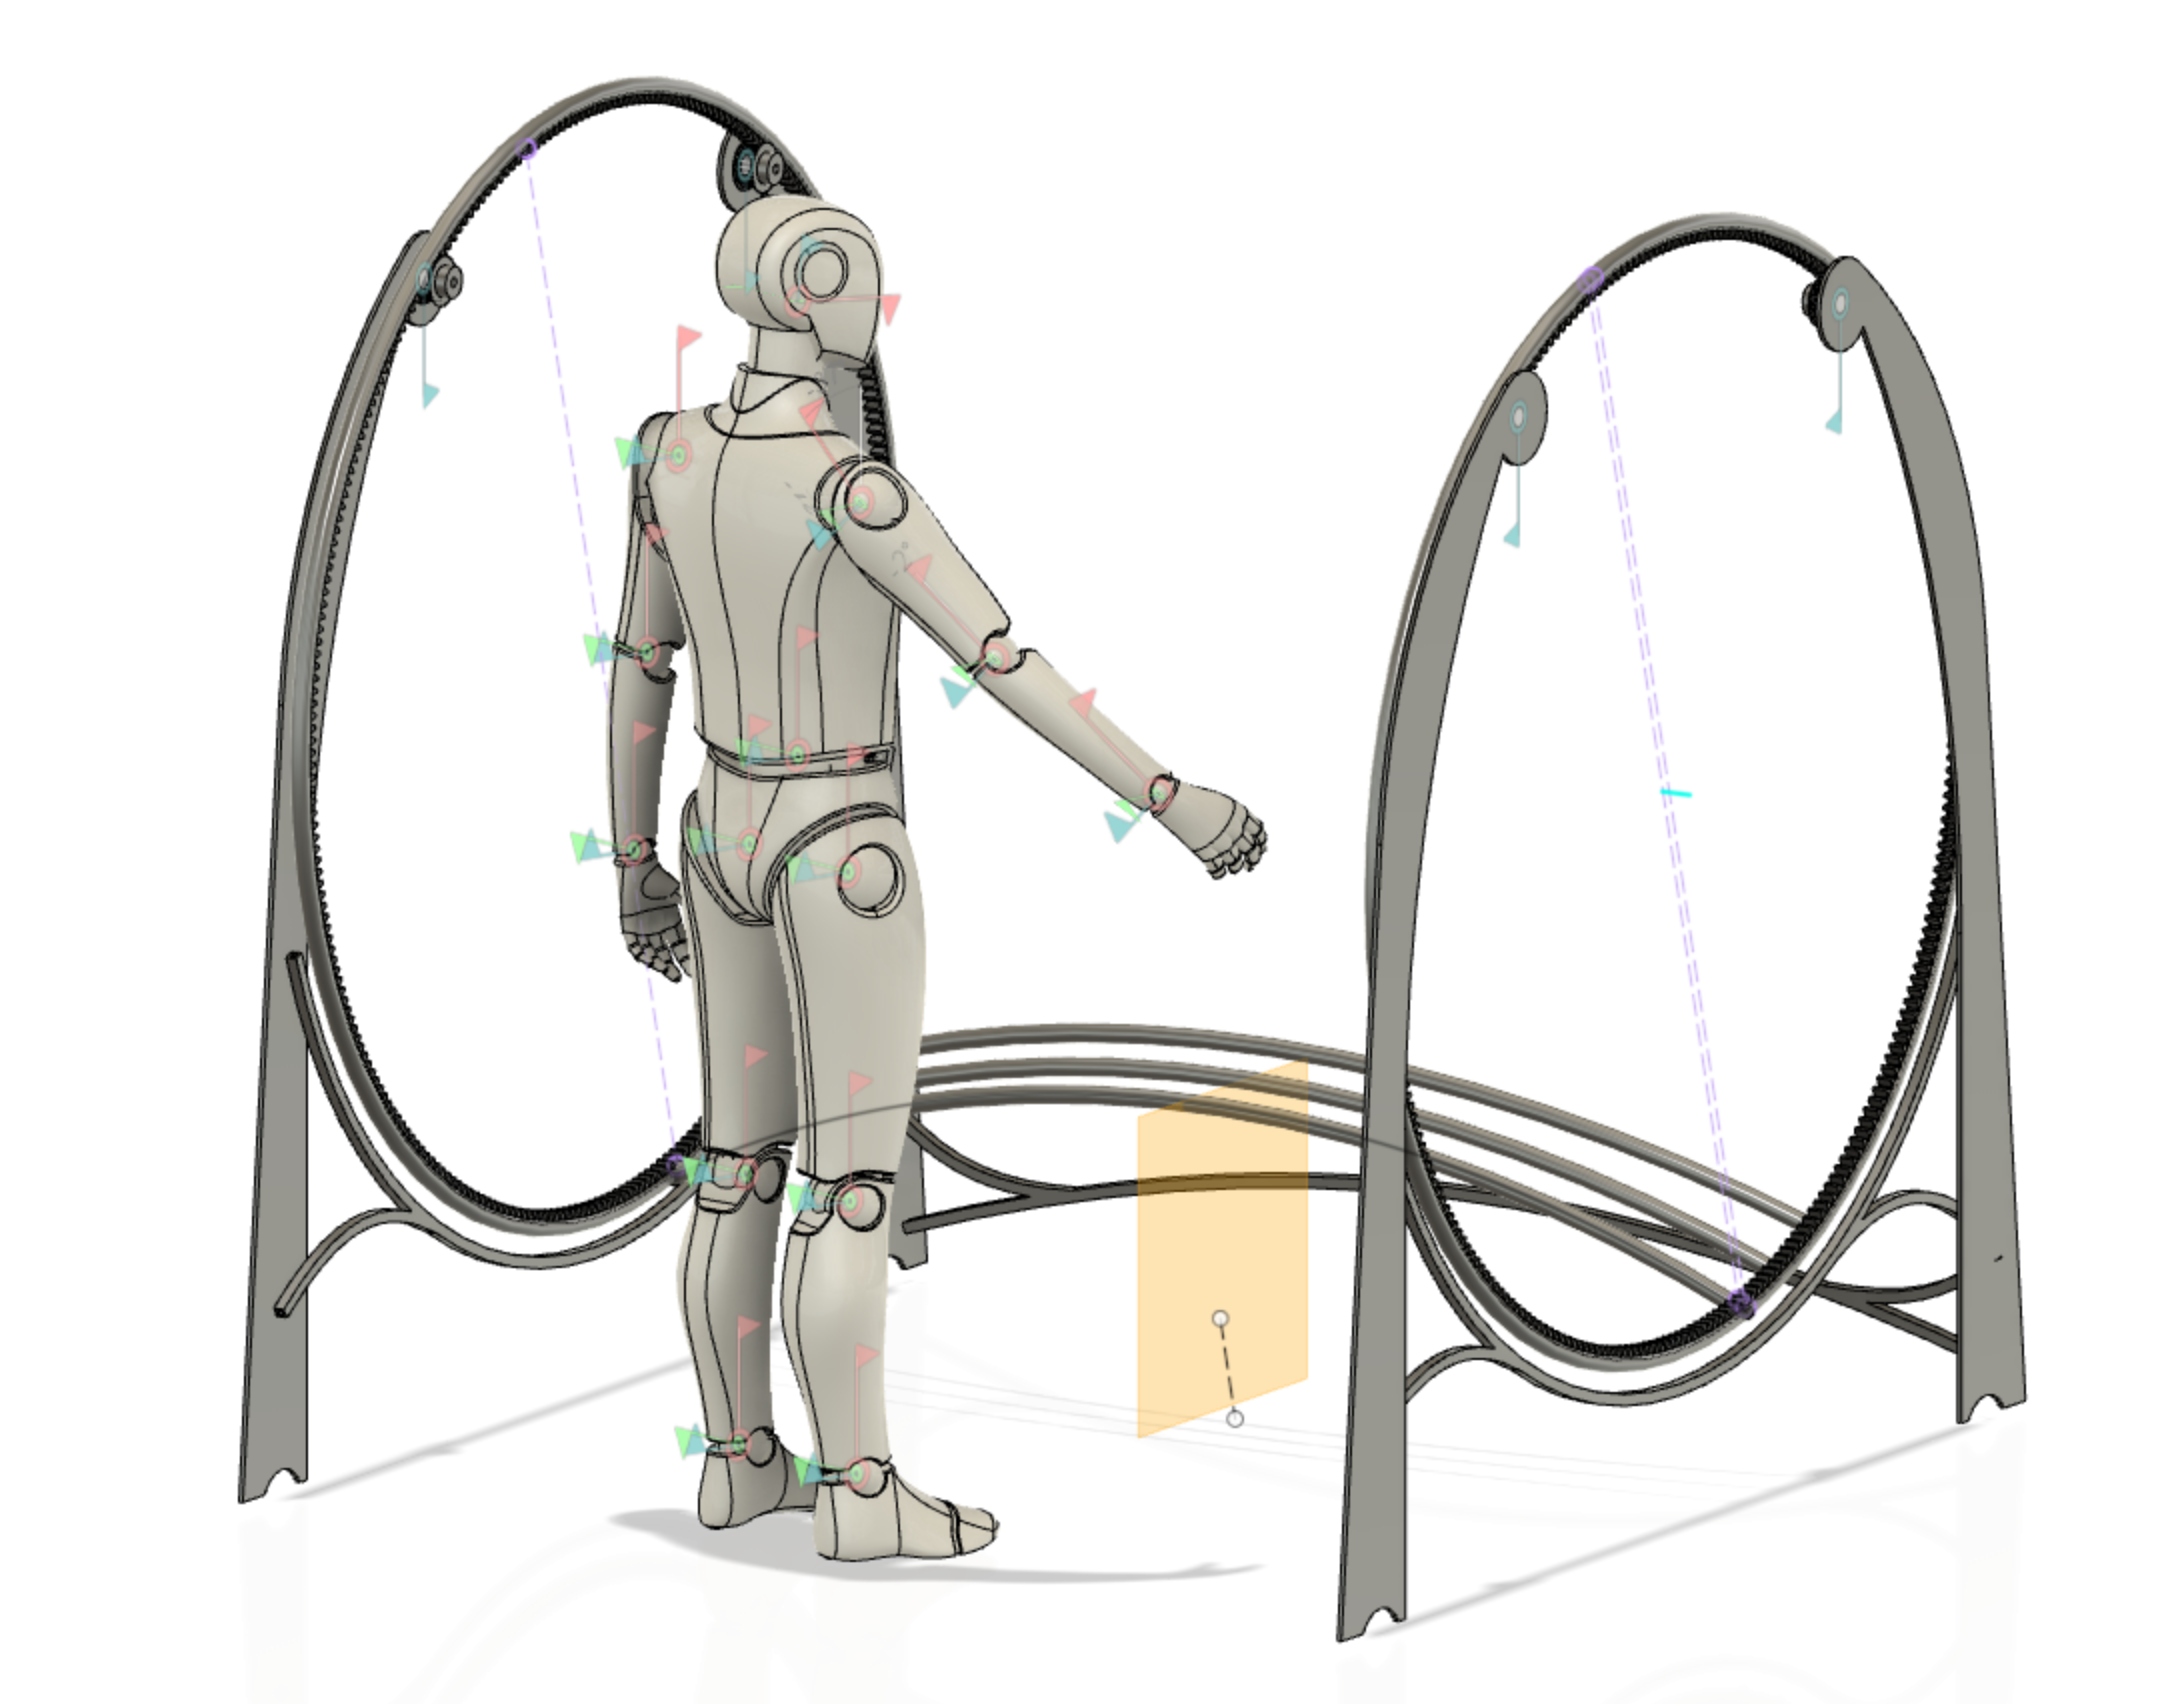
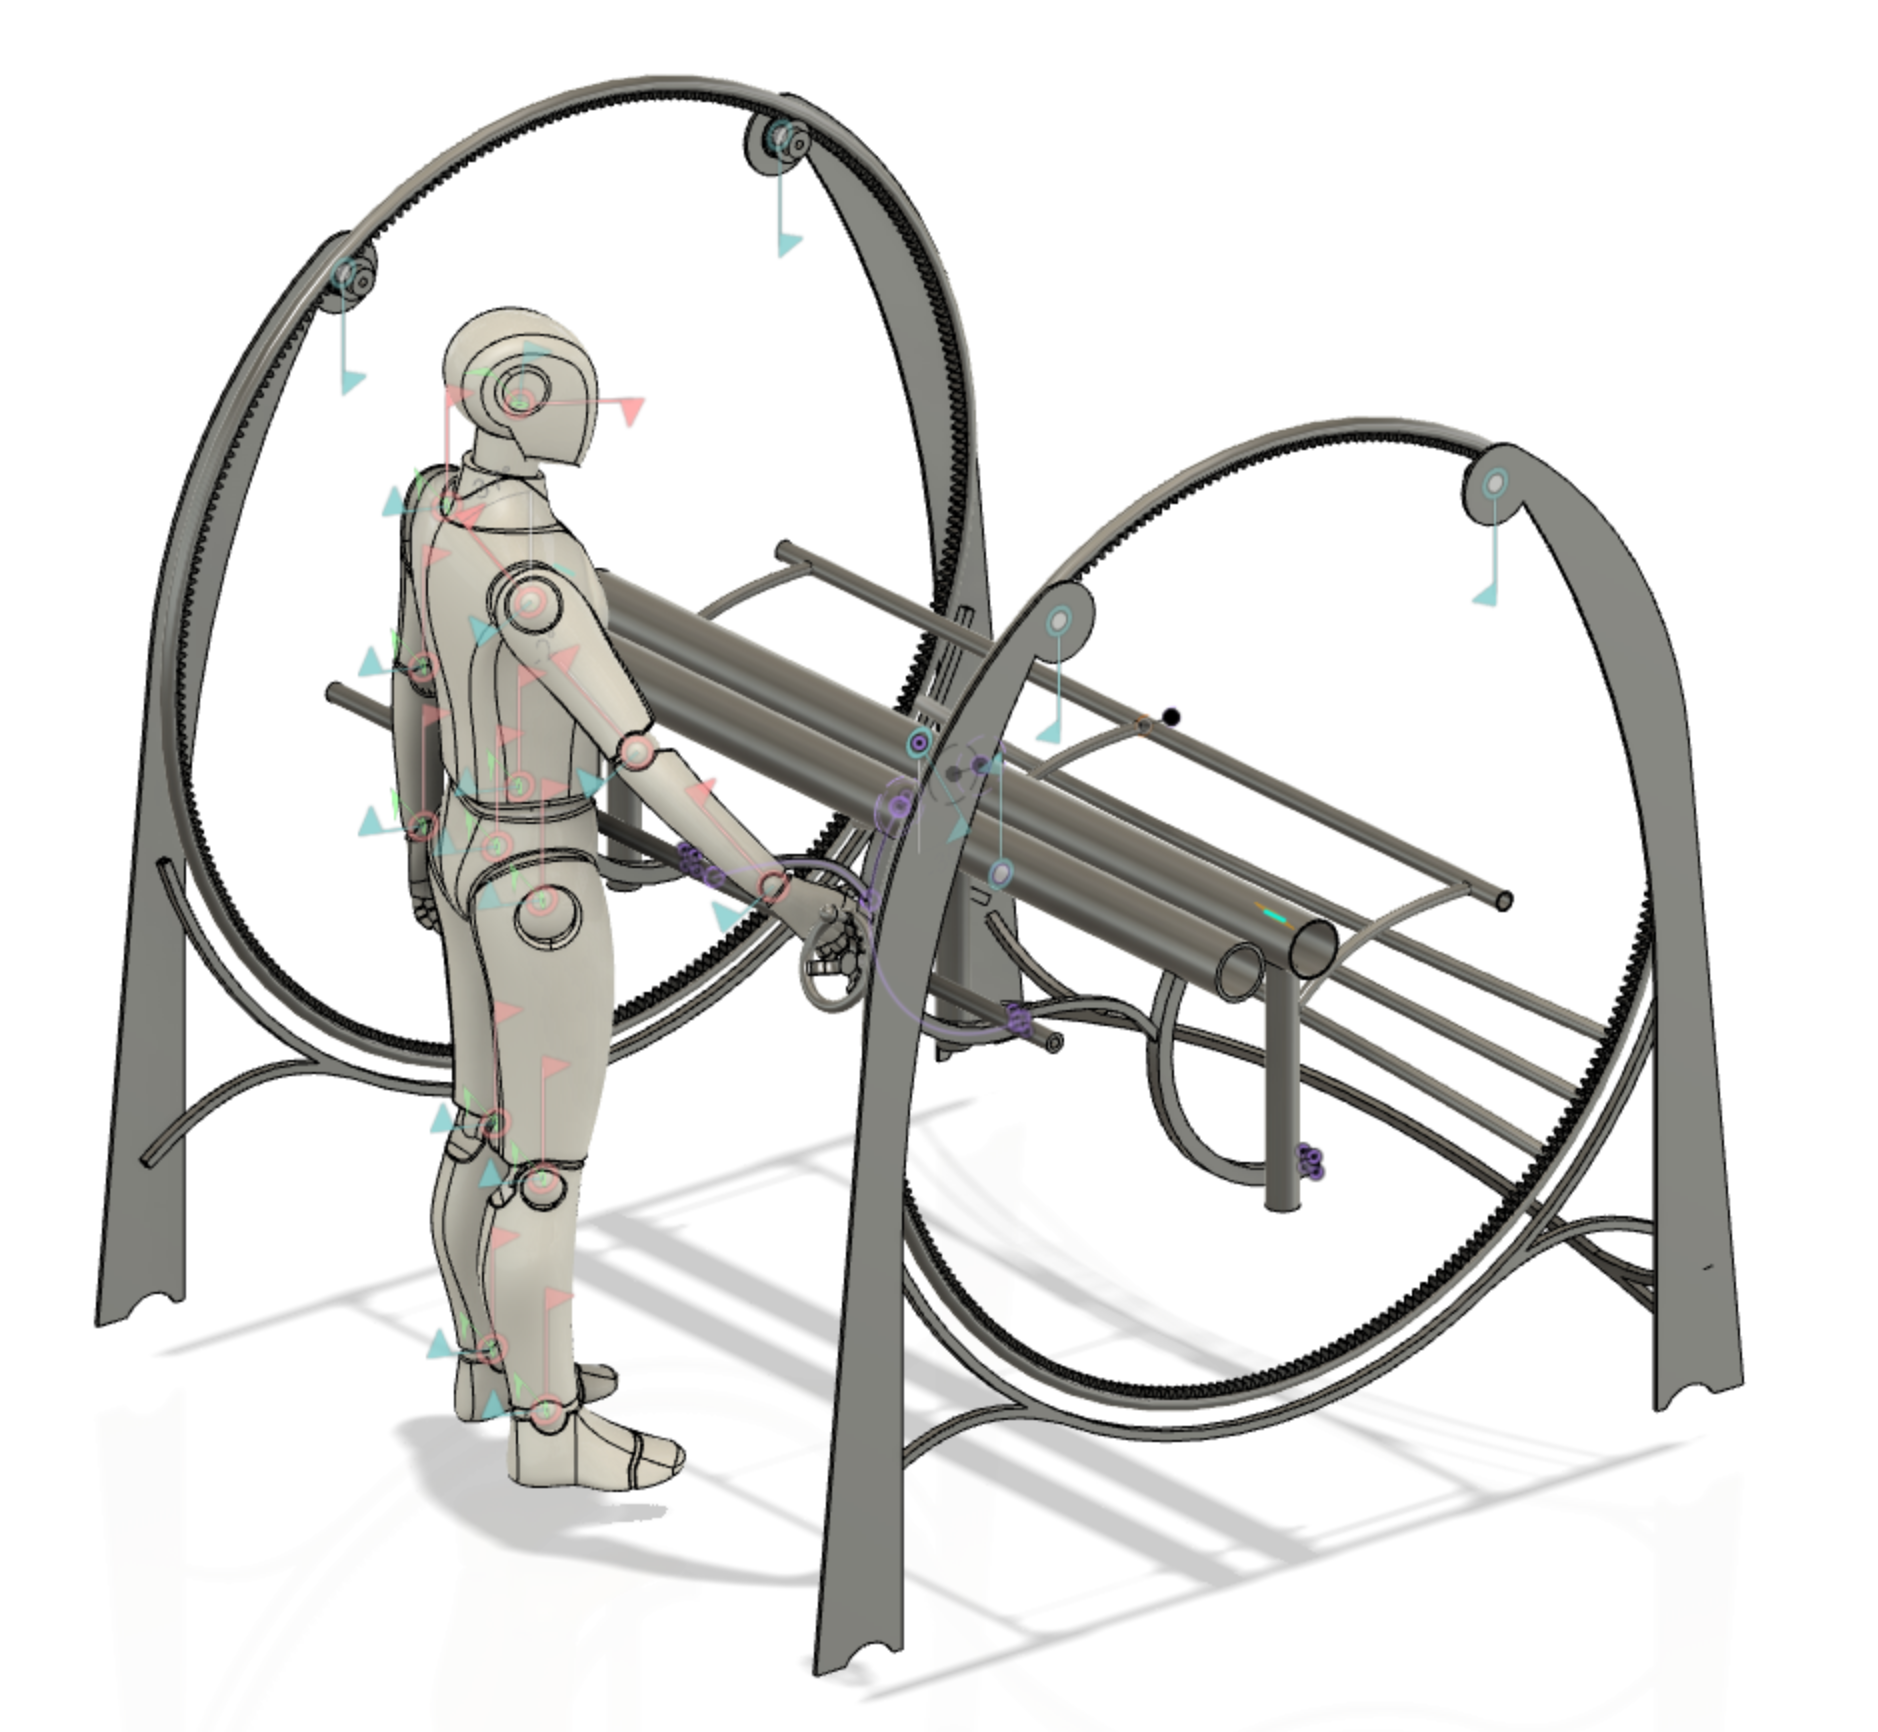
#540 tracks pics in

diff --git a/docs/5/500-barrel.md b/docs/5/500-barrel.md
@@ -7,9 +7,6 @@ Provides a table to study and test the vehicle platform (#100) on.
 
 >![](./images/500-barrel.png)
 
-<font color=red>tbd. track portion missing from the picture
-</font>
-
 **Design goals:**
 
 - easy to assemble and dis-assemble

diff --git a/CHANGELOG.md b/CHANGELOG.md
@@ -1,5 +1,10 @@
 # CHANGELOG
 
+## 30-Jun-20
+
+- #500 cover pic with table
+- #540 pics added
+
 ## 28-Jun-20
 
 - Material for 500..540: Barrel pit-stop (except 540 pics)

diff --git a/docs/5/540-tracks.md b/docs/5/540-tracks.md
@@ -2,7 +2,6 @@
 
 >![](images/540-tracks.png)
 
-<!-- tbd. CAD and pic _:) -->
 
 Purpose:
 
